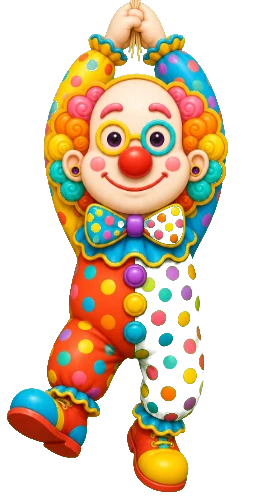
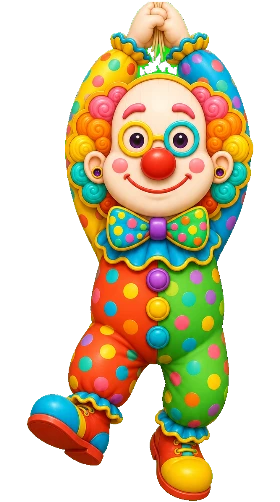
Flying Clown: subida maior com câmera, chão de picadeiro, escada de prêmios, PEGAR com valor, estouro com efeito, palhaço recortado, capa na Home

diff --git a/Fortune Flying Clown.dc.html b/Fortune Flying Clown.dc.html
@@ -15,6 +15,8 @@
 @font-face { font-family: 'Rammetto One'; font-display: swap; src: url('assets/fonts/rammettoone-latin.woff2') format('woff2'); }
 html, body { margin: 0; height: 100%; background: #12051f; font-family: 'Baloo 2', system-ui, sans-serif; -webkit-tap-highlight-color: transparent; overscroll-behavior: none; }
 a { color: #ffd257; text-decoration: none; } a:hover { color: #fff1b8; }
+@keyframes flGlow { 0%,100% { box-shadow: 0 0 0 3px #fff3c4, 0 0 16px rgba(255,200,60,.55); } 50% { box-shadow: 0 0 0 3px #fff3c4, 0 0 30px rgba(255,200,60,1); } }
+@keyframes flRung { 0%,100% { transform: scale(1); } 50% { transform: scale(1.08); } }
 @keyframes flPop { 0% { transform: scale(.6); opacity: 0; } 70% { transform: scale(1.06); opacity: 1; } 100% { transform: scale(1); } }
 @keyframes flFade { from { opacity: 0; } to { opacity: 1; } }
 @keyframes flPulse { 0%, 100% { transform: scale(1); } 50% { transform: scale(1.06); } }
@@ -27,8 +29,8 @@ a { color: #ffd257; text-decoration: none; } a:hover { color: #fff1b8; }
   <div style="position: absolute; inset: 0; background: url('assets/bleed/stage-bleed.webp') 50% 100% / cover; filter: blur(8px) brightness(.7);"></div>
   <div ref="{{ stageRef }}" data-screen-label="Fortune Flying Clown" style="position: relative; flex: 0 0 auto; width: 453px; height: 802px; overflow: hidden; transform: scale({{ scale }}); transform-origin: 50% 0; user-select: none; -webkit-user-select: none;">
 
-    <div ref="{{ worldRef }}" style="position: absolute; left: 0; top: -40px; width: 453px; height: 885px; background: url('assets/flying/bg.webp') 50% 50% / cover no-repeat; will-change: transform;"></div>
-    <div style="position: absolute; left: 14px; right: 14px; top: 664px; height: 30px; border-radius: 0 0 50% 50%; background: repeating-linear-gradient(45deg, rgba(255,243,196,.8) 0 2px, transparent 2px 14px), repeating-linear-gradient(-45deg, rgba(255,243,196,.8) 0 2px, transparent 2px 14px); border-top: 4px solid #ffd257;"></div>
+    <div ref="{{ worldRef }}" style="position: absolute; left: -120px; top: -520px; width: 693px; height: 1221px; background: url('assets/flying/bg2.webp') 50% 50% / cover no-repeat; will-change: transform;"></div>
+    <div ref="{{ floorRef }}" style="position: absolute; z-index: 4; left: -224px; top: 590px; width: 900px; height: 320px; pointer-events: none; will-change: transform; background: url('assets/flying/floor.webp') 50% 0 / 900px 183px no-repeat, linear-gradient(#680302, #3a0206) 0 182px / 100% 140px no-repeat;"></div>
     <canvas ref="{{ canvasRef }}" onPointerDown="{{ tapBalloon }}" width="906" height="1604" style="position: absolute; z-index: 6; inset: 0; width: 453px; height: 802px; cursor: pointer; touch-action: none;"></canvas>
     <img ref="{{ clownRef }}" src="assets/flying/clown.webp" alt="Palhaço" draggable="false" style="position: absolute; z-index: 5; left: 172.3px; top: 368.7px; width: 110px; height: 197px; pointer-events: none; transform-origin: 53.7px 11.3px; filter: drop-shadow(0 10px 10px rgba(0,0,0,.4));">
 
@@ -45,33 +47,31 @@ a { color: #ffd257; text-decoration: none; } a:hover { color: #fff1b8; }
     <a href="Home.dc.html" onClick="{{ goHome }}" aria-label="Voltar para o início" class="kr-hud-home" style="z-index: 20; border-radius: 50%; overflow: hidden; " style-active="filter: brightness(.6);"></a>
     <x-import from="./ui/menu.js" component="MenuButton" dc-props="{{ menuButton }}"></x-import>
 
-    <!-- multiplicador atual → próximo -->
-    <div style="position: absolute; z-index: 10; left: 165px; right: 125px; top: 22px; display: flex; flex-direction: column; justify-content: center; align-items: center; gap: 2px; pointer-events: none; opacity: {{ multOp }};">
-      <div style="height: 42px; padding: 0 16px; border-radius: 21px; display: flex; align-items: center; background: linear-gradient(180deg, #fff1a8, #ffc93a 55%, #e8900f); box-shadow: 0 3px 0 #8a4a05, 0 0 0 2px #6b2e05;">
-        <span style="font-size: 26px; font-weight: 800; line-height: 1; color: #4a1a00; font-variant-numeric: tabular-nums;">{{ multText }}</span>
-      </div>
-      <sc-if value="{{ hasNext }}" hint-placeholder-val="{{ true }}">
-        <span style="font-size: 16px; font-weight: 800; color: rgba(255,243,196,.9); text-shadow: 0 2px 0 rgba(0,0,0,.5); font-variant-numeric: tabular-nums;">→ {{ nextText }}</span>
-      </sc-if>
+    <!-- escada de prêmios: 10 degraus, o atual aceso e o próximo pulsando -->
+    <div aria-label="Prêmio atual {{ multText }}" style="position: absolute; z-index: 10; right: 10px; top: 92px; width: 64px; display: flex; flex-direction: column-reverse; gap: 5px; pointer-events: none;">
+      <sc-for list="{{ rungs }}" as="r" hint-placeholder-count="10">
+        <div style="height: 50px; border-radius: 16px; display: flex; align-items: center; justify-content: center; background: {{ r.bg }}; box-shadow: {{ r.sh }}; opacity: {{ r.op }}; animation: {{ r.anim }}; transition: background .3s, opacity .3s;">
+          <span style="font-size: {{ r.size }}; font-weight: 800; line-height: 1; color: {{ r.color }}; font-variant-numeric: tabular-nums; white-space: nowrap;">{{ r.text }}</span>
+        </div>
+      </sc-for>
     </div>
 
     <!-- botões (igual ao Neck): PEGAR à esquerda, ESTOURAR à direita -->
     <div style="position: absolute; z-index: 12; left: 14px; right: 14px; top: 704px; height: 86px; display: flex; gap: 10px;">
       <sc-if value="{{ showBet }}" hint-placeholder-val="{{ true }}">
         <div onClick="{{ openBet }}" role="button" aria-label="Aposta {{ betText }}" style="flex: 0 0 130px; height: 86px; border-radius: 26px; display: flex; flex-direction: column; align-items: center; justify-content: center; gap: 4px; line-height: 1; cursor: pointer; background: rgba(28,6,48,.92); box-shadow: inset 0 0 0 3px #f0b41f; animation: {{ betAnim }};" style-active="transform: scale(.96);">
-          <div style="width: 34px; height: 34px; border-radius: 50%; background: url('assets/stage-hd-c.webp') -18.3px -28.4px / 428px 758px;"></div>
+          <img src="assets/symbols/sym-coin.webp" alt="" style="width: 34px; height: 34px;">
           <span style="font-size: 24px; font-weight: 800; color: #fff3c4; font-variant-numeric: tabular-nums;">{{ betText }}</span>
         </div>
       </sc-if>
       <sc-if value="{{ showCollect }}" hint-placeholder-val="{{ false }}">
-        <div onClick="{{ collectBtn }}" role="button" aria-label="Pegar o prêmio" class="kr-button kr-button--gold" style="flex: 0 0 150px; overflow: hidden; height: 86px; display: flex; flex-direction: column; align-items: center; justify-content: center; line-height: 1; cursor: pointer; opacity: {{ collectOp }}; animation: flPop .3s ease-out;">
-          <span style="font-family: 'Rammetto One', 'Baloo 2', sans-serif; font-size: 24px; color: #4a1a00;">PEGAR</span>
-          <span style="font-size: 22px; font-weight: 800; color: #5a2a00; font-variant-numeric: tabular-nums; white-space: nowrap;">{{ collectText }}</span>
+        <div onClick="{{ collectBtn }}" role="button" aria-label="Pegar {{ collectText }} moedas" class="kr-button kr-button--gold" style="flex: 0 0 170px; overflow: hidden; height: 86px; display: flex; flex-direction: column; align-items: center; justify-content: center; gap: 3px; line-height: 1; cursor: pointer; opacity: {{ collectOp }}; animation: flGlow 1.2s ease-in-out infinite;">
+          <span style="font-family: 'Rammetto One', 'Baloo 2', sans-serif; font-size: 20px; color: #4a1a00;">PEGAR</span>
+          <div style="display: flex; align-items: center; gap: 5px;"><img src="assets/symbols/sym-coin.webp" alt="" style="width: 28px; height: 28px;"><span style="font-size: 27px; font-weight: 800; color: #4a1a00; font-variant-numeric: tabular-nums; white-space: nowrap;">{{ collectText }}</span></div>
         </div>
       </sc-if>
       <div onClick="{{ popBtn }}" role="button" aria-label="Estourar um balão" class="kr-button" style="flex: 1; height: 86px; display: flex; align-items: center; justify-content: center; gap: 10px; cursor: pointer; opacity: {{ popOp }}; animation: {{ popAnim }};">
-        <img src="assets/flying/b0.webp" alt="" style="width: 36px; height: 44px;">
-        <span style="font-family: 'Rammetto One', 'Baloo 2', sans-serif; font-size: 24px; color: #fff; text-shadow: 0 2px 0 #147a36;">ESTOURAR</span>
+        <span style="font-family: 'Rammetto One', 'Baloo 2', sans-serif; font-size: 26px; color: #fff; text-shadow: 0 2px 0 #147a36;">ESTOURAR</span>
       </div>
     </div>
 
@@ -130,7 +130,9 @@ a { color: #ffd257; text-decoration: none; } a:hover { color: #fff1b8; }
 // Fortune Flying Clown — par de escada do Nick Neck. Começa com 10 balões; toque num balão para estourar → ele sobe 1 andar.
 // Azar: todos estouram e ele cai na rede (perde). Estourou o 10º = x20 e ele sai voando. PEGAR quando quiser.
 // Chance de passar do andar k-1 para k = M[k-1]/M[k] (1º: 0,95/1,2) → parar em qualquer andar devolve 95%.
-const M = [1.2, 1.5, 2, 2.5, 3, 4, 5, 8, 12, 20], N = 10, HX = 226, HY0 = 380, DY = 26, BW = 54, BH = 65;
+const M = [1.2, 1.5, 2, 2.5, 3, 4, 5, 8, 12, 20], N = 10, HX = 226, HY0 = 380, DY = 24, BW = 54, BH = 65;
+// Camera: the tent pans down (and the near floor faster) as he rises, so 9 balloons read as a real climb.
+const PAN = 520, PANK = PAN / (DY * 9), FEET = 640;
 const SLOTS = [[-60, -92], [-20, -100], [20, -100], [60, -92], [-40, -146], [0, -152], [40, -146], [-20, -196], [20, -196], [0, -240]];
 const BETS = [1, 2.5, 5, 10, 25, 50, 100, 250, 500, 1000];
 const CONF = ['#ffd257', '#e8352b', '#2ec962', '#7fcfff', '#fff3c4', '#c86bff'];
@@ -138,12 +140,13 @@ const fmt = n => (Math.round(n * 100) / 100).toLocaleString('pt-BR', { maximumFr
 const ease = k => k < 0.5 ? 2 * k * k : 1 - Math.pow(-2 * k + 2, 2) / 2;
 class Component extends DCLogic {
   state = { balance: 1000, betIdx: 3, step: 0, bet: 0, busy: false, conf: [], vw: 453, vh: 802 };
-  stageRef = React.createRef(); worldRef = React.createRef(); canvasRef = React.createRef(); clownRef = React.createRef();
+  stageRef = React.createRef(); worldRef = React.createRef(); floorRef = React.createRef(); canvasRef = React.createRef(); clownRef = React.createRef();
   componentDidMount() {
     this._rs = () => this.setState({ vw: window.innerWidth, vh: window.innerHeight }); this._rs(); window.addEventListener('resize', this._rs);
     this.imgs = [0, 1, 2, 3, 4, 5].map(i => { const im = new Image(); im.src = 'assets/flying/b' + i + '.webp'; return im; });
     this.parts = []; this.fill(); this.cy = 0; this.cvy = 0; this.mode = 'idle'; this.hy = HY0;
-    window.__flying=this;const cloud=window.KingRicoCloud;if(cloud?.enabled)this._unwatch=cloud.watch(p=>{this._cloudDeferred=p;if(!this.state.busy&&!this._request&&!this.state.win)this.applyCloudPlayer();});
+    window.__flying=this;const cloud=window.KingRicoCloud;
+    if(!cloud?.enabled){try{const v=JSON.parse(localStorage.getItem('kr.flying.local'));if(v&&typeof v.balance==='number')this.setState({balance:v.balance<1?1000:v.balance});}catch(e){}}if(cloud?.enabled)this._unwatch=cloud.watch(p=>{this._cloudDeferred=p;if(!this.state.busy&&!this._request&&!this.state.win)this.applyCloudPlayer();});
     const loop = now => { this.tick(now / 1000); this._raf = requestAnimationFrame(loop); }; this._raf = requestAnimationFrame(loop);
   }
   componentWillUnmount() { this._dead=true;this._unwatch?.();if(window.__flying===this)delete window.__flying;window.removeEventListener('resize', this._rs); cancelAnimationFrame(this._raf); cancelAnimationFrame(this._tw); clearTimeout(this._ct); }
@@ -161,63 +164,83 @@ class Component extends DCLogic {
   recharge=async()=>{const c=window.KingRicoCloud;if(!c?.enabled||this._request)return;this._request=true;try{const r=await c.recharge();if(r.reason)c.error({code:'king-rico/round-conflict'});}catch(e){c.error(e);}finally{this._request=false;this._cloudDeferred=c.player;this.applyCloudPlayer();}};
   ac() { if (!this._ac) try { this._ac = new (window.AudioContext || window.webkitAudioContext)(); } catch (e) { return null; } if (this._ac.state === 'suspended') this._ac.resume(); return this._ac; }
   tone(f, d, type = 'triangle', g = 0.07, f2) { const L = [0, 0.35, 1][this.state.sfxLvl ?? 2]; if (!L) return; const a = this.ac(); if (!a) return; const o = a.createOscillator(), v = a.createGain(), t = a.currentTime; o.type = type; o.frequency.setValueAtTime(f, t); if (f2) o.frequency.exponentialRampToValueAtTime(f2, t + d); v.gain.setValueAtTime(g * L, t); v.gain.exponentialRampToValueAtTime(0.0001, t + d); o.connect(v).connect(a.destination); o.start(t); o.stop(t + d + 0.02); }
-  pop() { const L = [0, 0.35, 1][this.state.sfxLvl ?? 2]; const a = this.ac(); if (!a || !L) return; const n = a.createBuffer(1, a.sampleRate * 0.12, a.sampleRate), d = n.getChannelData(0); for (let i = 0; i < d.length; i++) d[i] = (Math.random() * 2 - 1) * Math.pow(1 - i / d.length, 3); const s = a.createBufferSource(), g = a.createGain(); s.buffer = n; g.gain.value = 0.5 * L; s.connect(g).connect(a.destination); s.start(); }
+  pop() { const L = [0, 0.35, 1][this.state.sfxLvl ?? 2]; const a = this.ac(); if (!a || !L) return; const n = a.createBuffer(1, a.sampleRate * 0.12, a.sampleRate), d = n.getChannelData(0); for (let i = 0; i < d.length; i++) d[i] = (Math.random() * 2 - 1) * Math.pow(1 - i / d.length, 3); const s = a.createBufferSource(), g = a.createGain(); s.buffer = n; g.gain.value = 0.7 * L; s.connect(g).connect(a.destination); s.start(); this.tone(160, .12, 'sine', .12, 60); }
   buzz(p) { if (!(this.state.vibLvl ?? 2)) return; try { navigator.vibrate && navigator.vibrate(p); } catch (e) {} }
   tween(T, f, done) { const t0 = performance.now(); const st = () => { const k = Math.min(1, (performance.now() - t0) / T); f(k); if (k < 1) this._tw = requestAnimationFrame(st); else done && done(); }; cancelAnimationFrame(this._tw); this._tw = requestAnimationFrame(st); }
   tick(t) {
     const dt=this._lastFrame==null?1/60:Math.min(.05,Math.max(0,t-this._lastFrame));this._lastFrame=t;if(this._dead||this.state.menu||this.state.pays||this.state.betOpen||document.hidden)return;
-    const s = this.state.step, w = this.worldRef.current; if (w) w.style.transform = 'translateY(' + ((HY0 - this.hy) * 0.25).toFixed(1) + 'px)';
+    const s = this.state.step, w = this.worldRef.current, f = this.floorRef.current, cam = Math.max(0, Math.min(PAN, (HY0 - this.hy - this.cy) * PANK));
+    if (w) w.style.transform = 'translateY(' + cam.toFixed(1) + 'px)'; if (f) f.style.transform = 'translateY(' + (cam * 1.35).toFixed(1) + 'px)';
     const sway = Math.sin(t * 1.3) * 0.05, c = this.clownRef.current, hy = this.hy + this.cy;
     let rot = sway, sx = 1, sy = 1;
-    if (this.mode === 'hang') { this.hangT += dt; const k = Math.min(1, this.hangT / 0.35); sy = 1 + 0.08 * k; sx = 1 - 0.05 * k; rot = Math.sin(t * 30) * 0.04 * k; if (this.hangT >= 0.35) { this.mode = 'fall'; this.cvy = 60; } }
-    else if (this.mode === 'fall') { this.cvy += 2600 * dt; this.cy += this.cvy * dt; const fl = HY0 - this.hy + 98; rot = Math.sin(t * 22) * 0.12; sy = 1 + Math.min(0.12, this.cvy / 6000); sx = 1 / sy;
-      if (this.cy >= fl) { this.cy = fl; this.mode = 'land'; this.landT = 0; this.dust(); this.tone(110, 0.3, 'sine', 0.14, 60); this.buzz([50, 30, 30]); const st = this.stageRef.current; if (st && st.animate) st.animate([{ transform: st.style.transform + ' translateY(0)' }, { transform: st.style.transform + ' translateY(6px)' }, { transform: st.style.transform + ' translateY(-2px)' }, { transform: st.style.transform + ' translateY(0)' }], { duration: 260 }); } }
+    if (this.mode === 'hang') { this.hangT += dt; const k = Math.min(1, this.hangT / 0.5); sy = 1 + 0.08 * k; sx = 1 - 0.05 * k; rot = Math.sin(t * 30) * 0.04 * k; if (this.hangT >= 0.5) { this.mode = 'fall'; this.cvy = -260; } }
+    else if (this.mode === 'fall') { this.cvy += 2600 * dt; this.cy += this.cvy * dt; const fl = HY0 - this.hy + (FEET - 566); rot = Math.sin(t * 16) * 0.32 + Math.sin(t * 37) * 0.06; if (Math.random() < .5) this.parts.push({ x: HX + (Math.random() - .5) * 60, y: this.hy + this.cy - 30, vx: 0, vy: -700, c: 'rgba(255,243,196,.55)', t: 0, streak: 1 }); sy = 1 + Math.min(0.12, this.cvy / 6000); sx = 1 / sy;
+      if (this.cy >= fl) { this.cy = fl; this.mode = 'land'; this.landT = 0; this.dust(); this.tone(110, 0.3, 'sine', 0.14, 60); this.buzz([50, 30, 30]); const st = this.stageRef.current; if (st && st.animate) st.animate([{ transform: st.style.transform + ' translateY(0)' }, { transform: st.style.transform + ' translateY(12px)' }, { transform: st.style.transform + ' translateY(-5px)' }, { transform: st.style.transform + ' translateY(3px)' }, { transform: st.style.transform + ' translateY(0)' }], { duration: 380 }); } }
     else if (this.mode === 'land' || this.mode === 'down') { this.landT = (this.landT || 0) + dt; const k = this.landT; const q = k < 0.08 ? k / 0.08 : Math.exp(-(k - 0.08) * 7) * Math.cos((k - 0.08) * 26); sy = 1 - 0.28 * q; sx = 1 + 0.22 * q; rot = 0; if (k > 0.8) this.mode = 'down'; }
     else if (this.mode === 'rise') { this.riseT += dt; const k = Math.min(1, this.riseT / 0.9); sy = 1 + 0.14 * Math.sin(k * Math.PI); sx = 1 - 0.08 * Math.sin(k * Math.PI); rot = 0; if (k >= 1) this.mode = 'idle'; }
-    if (c) { c.style.transformOrigin = '50% 100%'; c.style.transform = 'translateY(' + (hy - HY0).toFixed(1) + 'px) rotate(' + rot.toFixed(3) + 'rad) scale(' + sx.toFixed(3) + ',' + sy.toFixed(3) + ')'; }
+    if (c) { c.style.transformOrigin = (this.mode === 'land' || this.mode === 'down') ? '50% 100%' : '50% 4%'; c.style.transform = 'translateY(' + (hy - HY0).toFixed(1) + 'px) rotate(' + rot.toFixed(3) + 'rad) scale(' + sx.toFixed(3) + ',' + sy.toFixed(3) + ')'; }
     const cv = this.canvasRef.current; if (!cv) return; const x = cv.getContext('2d'); x.setTransform(2, 0, 0, 2, 0, 0); x.clearRect(0, 0, 453, 802);
-    const hx = HX + Math.sin(sway) * 6; this.hit = [];
-    this.balls.forEach((b, i) => { b.cx = hx + b.x + Math.sin(t * 1.5 + b.ph) * 4; b.cy = hy + b.y + Math.cos(t * 1.3 + b.ph) * 3; });
+    const hx = HX + Math.sin(rot) * 6; this.hit = []; const lift = this.mode === 'rise' ? -10 * Math.sin(Math.min(1, this.riseT / 0.9) * Math.PI) : 0;
+    this.balls.forEach((b, i) => { b.cx = hx + b.x + Math.sin(t * 1.5 + b.ph) * 4; b.cy = hy + lift + b.y + Math.cos(t * 1.3 + b.ph) * 3; });
     x.strokeStyle = 'rgba(255,255,255,.75)'; x.lineWidth = 1.2; this.balls.forEach(b => { x.beginPath(); x.moveTo(hx, hy); x.quadraticCurveTo((hx + b.cx) / 2, (hy + b.cy) / 2 + 20, b.cx, b.cy + BH * 0.48 * b.s); x.stroke(); });
     this.balls.slice().sort((a, b) => a.cy - b.cy).forEach(b => { const im = this.imgs[b.c]; if (im.complete && im.naturalWidth) x.drawImage(im, b.cx - BW * b.s / 2, b.cy - BH * b.s / 2, BW * b.s, BH * b.s); });
-    for (let i = this.parts.length - 1; i >= 0; i--) { const p = this.parts[i]; p.t += dt; p.x += p.vx * dt; p.y += p.vy * dt; p.vy += 600 * dt; x.fillStyle = p.c; x.globalAlpha = Math.max(0, 1 - p.t / 0.7); x.fillRect(p.x, p.y, 7, 4); x.globalAlpha = 1; if (p.t > 0.7) this.parts.splice(i, 1); }
+    for (let i = this.parts.length - 1; i >= 0; i--) { const p = this.parts[i]; p.t += dt; p.x += p.vx * dt; p.y += p.vy * dt; if (!p.ring && !p.streak) p.vy += 600 * dt; x.globalAlpha = Math.max(0, 1 - p.t / (p.life || 0.7)); x.fillStyle = p.c; if (p.streak) { p.vy = -700; x.fillRect(p.x, p.y, 2, 26); } else if (p.ring) { x.strokeStyle = p.c; x.lineWidth = 4 * (1 - p.t / p.life); x.beginPath(); x.arc(p.x, p.y, 10 + p.t * 220, 0, 6.29); x.stroke(); } else { x.save(); x.translate(p.x, p.y); x.rotate(p.t * (p.spin || 8)); x.fillRect(-(p.w || 7) / 2, -2, p.w || 7, 4); x.restore(); } x.globalAlpha = 1; if (p.t > (p.life || 0.7)) this.parts.splice(i, 1); }
   }
-  burst(b) { const cols = ['#e8352b', '#ff6aa8', '#ffd23a', '#ff8a2a', '#2fc7d6', '#a45cff']; for (let k = 0; k < 12; k++) { const a = Math.random() * 6.28, v = 120 + Math.random() * 220; this.parts.push({ x: b.cx, y: b.cy, vx: Math.cos(a) * v, vy: Math.sin(a) * v - 80, c: cols[b.c], t: 0 }); } }
+  burst(b, big = true) { const cols = ['#e8352b', '#ff6aa8', '#ffd23a', '#ff8a2a', '#2fc7d6', '#a45cff'];
+    for (let k = 0; k < (big ? 26 : 12); k++) { const a = Math.random() * 6.28, v = 140 + Math.random() * 300; this.parts.push({ x: b.cx, y: b.cy, vx: Math.cos(a) * v, vy: Math.sin(a) * v - 90, c: cols[b.c], t: 0, w: 5 + Math.random() * 9, spin: (Math.random() - .5) * 24, life: .8 }); }
+    if (big) { this.parts.push({ x: b.cx, y: b.cy, vx: 0, vy: 0, c: '#fff3c4', t: 0, ring: 1, life: .32 }); this.popText(b.cx, b.cy); this.shake(); } }
+  popText(x, y) { const st = this.stageRef.current; if (!st || !st.animate) return; const d = document.createElement('div'); d.textContent = 'POP!';
+    d.style.cssText = "position:absolute;z-index:9;left:0;top:0;pointer-events:none;font-family:'Rammetto One','Baloo 2',sans-serif;font-size:30px;color:#fff3c4;text-shadow:0 3px 0 #b8341f,0 0 14px rgba(255,200,60,.9);";
+    st.appendChild(d); const a = d.animate([{ transform: 'translate(' + (x - 40) + 'px,' + (y - 20) + 'px) scale(.4) rotate(-8deg)', opacity: 0 }, { transform: 'translate(' + (x - 40) + 'px,' + (y - 46) + 'px) scale(1.15) rotate(4deg)', opacity: 1, offset: .3 }, { transform: 'translate(' + (x - 40) + 'px,' + (y - 70) + 'px) scale(1) rotate(0)', opacity: 0 }], { duration: 650, easing: 'cubic-bezier(.2,.8,.3,1)', fill: 'forwards' }); a.onfinish = () => d.remove(); }
+  shake() { const w = this.worldRef.current; if (!w || !w.animate) return; w.animate([{ translate: '0 0' }, { translate: '-4px 2px' }, { translate: '4px -2px' }, { translate: '-2px 1px' }, { translate: '0 0' }], { duration: 180 }); }
   pack() { this.balls.forEach((b, i) => { const [tx, ty] = SLOTS[i], fx = b.x, fy = b.y; b.tw = { fx, fy, tx, ty }; }); const B = this.balls; const t0 = performance.now(); const st = () => { const k = Math.min(1, (performance.now() - t0) / 400), e = ease(k); B.forEach(b => { if (b.tw) { b.x = b.tw.fx + (b.tw.tx - b.tw.fx) * e; b.y = b.tw.fy + (b.tw.ty - b.tw.fy) * e; } }); if (k < 1) requestAnimationFrame(st); }; requestAnimationFrame(st); }
   tapBalloon = e => {
     const s = this.state; if (this._request || s.busy || s.win || s.menu || s.pays || s.betOpen || this.mode !== 'idle') return; this.ac();
     const r = e.currentTarget.getBoundingClientRect(), sc = r.width / 453, px = (e.clientX - r.left) / sc, py = (e.clientY - r.top) / sc;
     let bi = -1, bd = 1e9; this.balls.forEach((b, i) => { const d = Math.hypot(px - b.cx, (py - b.cy) * 0.85); if (d < bd) { bd = d; bi = i; } }); if (bi < 0 || bd > 40) return; this.popIdx(bi); };
   popBtn = () => { const s = this.state; if (this._request || s.busy || s.win || s.menu || s.pays || s.betOpen || this.mode !== 'idle' || !this.balls.length) return; this.ac(); let bi = 0; this.balls.forEach((b, i) => { if ((b.cy ?? 0) < (this.balls[bi].cy ?? 0)) bi = i; }); this.popIdx(bi); };
+  // Offline (no login, e.g. preview): same odds as cloud/engine.cjs — 0,95/1,2 on the first balloon, M[k-1]/M[k] after.
+  // Wallet kept on this device only.
+  localFlying(move, bet, step) { const before = this.state.balance;
+    if (move === 'collect') { const w = Math.round(bet * M[step - 1] * 100) / 100, bal = Math.round((before + w) * 100) / 100; this.saveLocal(bal); return { outcome: { ok: true, winUnits: Math.round(w * 100) }, balance: bal }; }
+    const debit = step === 0 ? bet : 0, ok = Math.random() < (step === 0 ? 0.95 / M[0] : M[step - 1] / M[step]), done = ok && step + 1 === N, w = done ? Math.round(bet * M[N - 1] * 100) / 100 : 0, bal = Math.round((before - debit + w) * 100) / 100;
+    this.saveLocal(bal); return { outcome: { ok, winUnits: Math.round(w * 100) }, balance: bal }; }
+  saveLocal(bal) { try { localStorage.setItem('kr.flying.local', JSON.stringify({ balance: bal })); } catch (e) {} }
   async popIdx(bi) {
     const c=window.KingRicoCloud,s=this.state;
-    if(!c?.enabled||!c.player||this._request||s.busy||!this.balls[bi])return;
+    if(!c?.enabled){ if(this._request||s.busy||!this.balls[bi])return; const bet=s.step?s.bet:BETS[s.betIdx]; if(!s.step&&s.balance<bet){this.setState({noMoney:true});setTimeout(()=>this.setState({noMoney:false}),600);return;}
+      const r=this.localFlying('pop',bet,s.step); return this.animatePop(bi,r.outcome,r.balance,bet,s.step); }
+    if(!c.player||this._request||s.busy||!this.balls[bi])return;
     const roundId=s.roundId||crypto.randomUUID(),bet=s.step?s.bet:BETS[s.betIdx],selected=this.balls[bi].id;
     this._request=true;this.setState({busy:true});let r;
     try{r=await c.flying('pop',bet,roundId,s.step,selected);}
     catch(e){c.error(e);this.setState({busy:false});this._request=false;this._cloudDeferred=c.player;this.applyCloudPlayer();return;}
     this._request=false;if(this._dead)return;
     if(c.player.revision>r.player.revision){this.setState({busy:false});this._cloudDeferred=c.player;this.applyCloudPlayer();return;}
-    const x=r.outcome,bal=c.player.balance,j=s.step,ok=x.ok,b=this.balls[bi];
     this.setState({roundId});
+    this.animatePop(bi,r.outcome,c.player.balance,bet,s.step);
+  }
+  animatePop(bi,x,bal,bet,j) {
+    const ok=x.ok,b=this.balls[bi];
     this.setState({ balance: bal, bet, busy: true }); this.burst(b); this.pop(); this.buzz(25); this.balls.splice(bi, 1);
-    if (!ok) { this.mode = 'hang'; this.hangT = 0; this.cvy = 0; let d = 0; this.balls.forEach(q => { setTimeout(() => { this.burst(q); this.pop(); }, d += 70); }); setTimeout(() => { this.balls = []; }, 60); setTimeout(() => this.tone(520, 0.5, 'sine', 0.07, 160), 150); this.buzz([60, 40, 60]); setTimeout(() => { this.reset(); this.mode = 'rise'; this.riseT = 0; this.hy = HY0 + 98; this.tween(1100, k => { this.hy = HY0 + 98 * (1 - ease(k)); }); this.tone(392, 0.2); setTimeout(() => this.tone(523, 0.25), 140); }, 2400); return; }
+    if (!ok) { this.mode = 'hang'; this.hangT = 0; this.cvy = 0; let d = 0; this.balls.forEach(q => { setTimeout(() => { this.burst(q, false); this.pop(); }, d += 70); }); setTimeout(() => { this.balls = []; }, 60); setTimeout(() => this.tone(520, 0.5, 'sine', 0.07, 160), 150); this.buzz([60, 40, 60]); setTimeout(() => { this.reset(); this.mode = 'rise'; this.riseT = 0; this.hy = HY0 + (FEET - 566); this.tween(1100, k => { this.hy = HY0 + (FEET - 566) * (1 - ease(k)); }); this.tone(392, 0.2); setTimeout(() => this.tone(523, 0.25), 140); }, 2400); return; }
     const n = j + 1; [523, 659, 784].forEach((f, i) => setTimeout(() => this.tone(f * Math.pow(1.06, j), 0.14), 60 + i * 60)); this.pack();
     if (n === N) { this.mode = 'away'; this.setState({ step: n }); this.confetti(); const fy = this.hy; this.tween(1400, k => { this.hy = fy - 700 * ease(k); }, () => this.showPrize(x.winUnits/100, 'SAIU VOANDO!')); return; }
-    this.mode = 'rise'; this.riseT = 0.25; const fy = this.hy; this.tween(550, k => { this.hy = fy - DY * ease(k); }, () => this.setState({ step: n, busy: false }));
+    this.mode = 'rise'; this.riseT = 0; const fy = this.hy; this.tween(850, k => { this.hy = fy - DY * (k < .7 ? ease(k / .7) * 1.12 : 1.12 - .12 * ease((k - .7) / .3)); }, () => this.setState({ step: n, busy: false }));
   };
-  dust() { const st = this.stageRef.current; if (!st || !st.animate) return; const fy = 664;
-    for (let i = 0; i < 14; i++) { const d = document.createElement('div'), side = i % 2 ? 1 : -1, sz = 14 + Math.random() * 18, dx = side * (30 + Math.random() * 70), dy = -(10 + Math.random() * 34);
+  dust() { const st = this.stageRef.current; if (!st || !st.animate) return; const fy = FEET;
+    for (let i = 0; i < 22; i++) { const d = document.createElement('div'), side = i % 2 ? 1 : -1, sz = 14 + Math.random() * 18, dx = side * (30 + Math.random() * 70), dy = -(10 + Math.random() * 34);
       d.style.cssText = 'position:absolute;z-index:6;left:0;top:0;width:' + sz + 'px;height:' + sz + 'px;border-radius:50%;pointer-events:none;background:radial-gradient(circle at 40% 40%, rgba(255,240,215,.95), rgba(214,180,140,.75) 60%, rgba(180,140,100,0) 100%)';
       st.appendChild(d); const x0 = HX - sz / 2 + side * (6 + Math.random() * 16), y0 = fy - sz / 2 - 4;
       const a = d.animate([{ transform: 'translate(' + x0 + 'px,' + y0 + 'px) scale(.4)', opacity: .95 }, { transform: 'translate(' + (x0 + dx * 0.7) + 'px,' + (y0 + dy) + 'px) scale(1.2)', opacity: .8, offset: .45 }, { transform: 'translate(' + (x0 + dx) + 'px,' + (y0 + dy * 0.6) + 'px) scale(1.6)', opacity: 0 }], { duration: 650 + Math.random() * 300, easing: 'cubic-bezier(.2,.7,.3,1)', fill: 'forwards' });
       a.onfinish = () => d.remove(); } }
-  reset() { if(this._dead)return;this.fill(); this.mode = 'idle'; this.cy = 0; this.cvy = 0; this.hy = HY0; this.setState({ step: 0, bet: 0, roundId:null,busy: false },()=>{this._cloudDeferred=window.KingRicoCloud?.player;this.applyCloudPlayer();}); }
+  reset() { if(this._dead)return;this.fill(); this.mode = 'idle'; this.cy = 0; this.cvy = 0; this.hy = HY0; this.setState({ step: 0, bet: 0, roundId:null,busy: false },()=>{if(!window.KingRicoCloud?.enabled)return;this._cloudDeferred=window.KingRicoCloud?.player;this.applyCloudPlayer();}); }
   confetti() { const conf = Array.from({ length: 24 }, (_, j) => { const a = -Math.PI / 2 + (j / 23 - 0.5) * 2.8, v = 110 + (j * 37 % 80); return { x: (HX - 5) + 'px', y: '300px', dx: Math.round(Math.cos(a) * v * 1.7) + 'px', dy: Math.round(Math.sin(a) * v * 1.7 + 80) + 'px', bg: CONF[j % CONF.length] }; });
     clearTimeout(this._ct); this.setState({ conf }); this._ct = setTimeout(() => this.setState({ conf: [] }), 1100); }
   showPrize(w, title) { if(this._dead)return; [523, 659, 784, 1046].forEach((f, i) => setTimeout(() => this.tone(f, 0.2), i * 90)); this.buzz([60, 50, 90]); this.setState({ win: { w, title }, busy: true }); }
   collectBtn=async()=>{
-    const c=window.KingRicoCloud,s=this.state;if(!c?.enabled||s.busy||s.win||s.step<1||this._request)return;
+    const c=window.KingRicoCloud,s=this.state;if(s.busy||s.win||s.step<1||this._request)return;
+    if(!c?.enabled){const r=this.localFlying('collect',s.bet,s.step);this.setState({balance:r.balance,busy:true});this.showPrize(r.outcome.winUnits/100,'VOCÊ GANHOU!');return;}
     this._request=true;this.setState({busy:true});
     try{const r=await c.flying('collect',s.bet,s.roundId,s.step,-1);if(this._dead)return;
       this.setState({balance:c.player.balance});this.showPrize(r.outcome.winUnits/100,'VOCÊ GANHOU!');
@@ -230,7 +253,7 @@ class Component extends DCLogic {
     this.tween(900,k=>{this.hy=fy+(HY0-fy)*ease(k);},()=>this.reset());
   };
   flyCoins(done) { const st = this.stageRef.current; if (!st || !st.animate) return done(); const from = { x: 100, y: 745 }, to = { x: 40, y: 42 }, n = 10;
-    for (let i = 0; i < n; i++) { const c = document.createElement('div'); c.style.cssText = 'position:absolute;z-index:35;left:0;top:0;width:34px;height:34px;border-radius:50%;pointer-events:none;background-image:url(assets/stage-hd-c.webp);background-size:453px 802px;background-position:-19.333px -30px;box-shadow:0 0 10px rgba(255,210,87,.8)';
+    for (let i = 0; i < n; i++) { const c = document.createElement('div'); c.style.cssText = 'position:absolute;z-index:35;left:0;top:0;width:34px;height:34px;border-radius:50%;pointer-events:none;background:url(assets/symbols/sym-coin.webp) center/contain no-repeat;filter:drop-shadow(0 0 8px rgba(255,210,87,.8))';
       st.appendChild(c); const dx = (i - n / 2) * 12, mid = { x: (from.x + to.x) / 2 + dx * 2, y: from.y - 260 - (i % 3) * 30 };
       const a = c.animate([{ transform: `translate(${from.x - 17 + dx}px,${from.y - 17}px) scale(.6)`, opacity: 0 }, { transform: `translate(${mid.x - 17}px,${mid.y - 17}px) scale(1.15)`, opacity: 1, offset: .45 }, { transform: `translate(${to.x - 17}px,${to.y - 17}px) scale(.7)`, opacity: 1 }], { duration: 760, delay: i * 55, easing: 'cubic-bezier(.4,0,.6,1)', fill: 'forwards' });
       a.onfinish = () => { c.remove(); this.tone(1800 + i * 40, 0.03, 'square', 0.03); if (i === n - 1) done(); }; } }
@@ -245,7 +268,13 @@ class Component extends DCLogic {
   renderVals() {
     const s = this.state, txt = fmt(s.balance), j = s.step;
     return {
-      scale: Math.min(s.vw / 453, s.vh / 802), stageRef: this.stageRef, worldRef: this.worldRef, canvasRef: this.canvasRef, clownRef: this.clownRef,
+      scale: Math.min(s.vw / 453, s.vh / 802), stageRef: this.stageRef, worldRef: this.worldRef, floorRef: this.floorRef,
+      rungs: M.map((m, i) => { const done = i < j - 1, cur = i === j - 1, next = i === j;
+        return { text: 'x' + fmt(m), size: cur ? '21px' : '18px', color: cur ? '#4a1a00' : next ? '#fff3c4' : done ? '#ffe39a' : 'rgba(255,243,196,.8)',
+          bg: cur ? 'linear-gradient(180deg, #fff1a8, #ffc93a 55%, #e8900f)' : done ? 'rgba(120,70,10,.85)' : next ? 'rgba(40,10,60,.92)' : 'rgba(28,6,48,.78)',
+          sh: cur ? '0 0 0 3px #fff3c4, 0 0 18px rgba(255,200,60,.9)' : next ? 'inset 0 0 0 3px #ffd257' : 'inset 0 0 0 2px rgba(240,180,31,.45)', op: done ? .8 : 1,
+          anim: next && !s.busy ? 'flRung 1.1s ease-in-out infinite' : 'none' }; }),
+      popNext: j < N ? 'PARA x' + fmt(M[j]) : '', canvasRef: this.canvasRef, clownRef: this.clownRef,
       balanceText: txt, balanceSize: (txt.length <= 6 ? 19 : txt.length <= 8 ? 16.5 : 14) + 'px', goHome: this.goHome, openMenu: this.openMenu,
       multText: j ? 'x' + fmt(M[j - 1]) : 'x' + fmt(M[0]), multOp: j ? 1 : 0.6, hasNext: j > 0 && j < M.length, nextText: j < M.length ? 'x' + fmt(M[j]) : '',
       showBet: j === 0, betText: fmt(BETS[s.betIdx]), betAnim: s.noMoney ? 'flNo .6s ease-in-out' : 'none', openBet: this.openBet,

diff --git a/Home.dc.html b/Home.dc.html
@@ -30,7 +30,7 @@ a { color: #ffd257; text-decoration: none; } a:hover { color: #fff1b8; }
   <div style="position: absolute; left: 0; right: 0; top: 0; height: 64%; background: linear-gradient(180deg, rgba(48,10,70,.62) 0%, rgba(48,10,70,.32) 55%, rgba(48,10,70,0) 100%); pointer-events: none;"></div>
   <div data-screen-label="Home" style="position: absolute; left: 0; right: 0; top: 0; bottom: 0; width: min(453px, 100%); margin: 0 auto; display: flex; flex-direction: column; padding-top: {{ padTop }}; box-sizing: border-box;">
 
-    <div style="position: relative; left: 50%; width: {{ hdrW }}; transform: translateX(-50%); height: {{ hdrH }}; flex: 0 0 {{ hdrH }}; z-index: 10;">
+    <div style="position: relative; height: {{ hdrH }}; flex: 0 0 {{ hdrH }}; z-index: 10;">
       <x-import from="./ui/menu.js" component="MenuButton" dc-props="{{ menuButton }}"></x-import>
       <div ref="{{ rPlaque }}" role="status" aria-label="Seu saldo: {{ balanceText }} moedas" style="position: absolute; left: {{ plqL }}; top: {{ plqT }}; width: 130px; height: 36px; border-radius: 18px; overflow: hidden; background-image: url('{{ imgStage }}'); background-size: 453px 802px; background-position: -19.333px -30px; background-repeat: no-repeat; transform: scale({{ plqS }}); transform-origin: {{ plqO }};">
         <div style="position: absolute; left: 39px; top: -2px; width: 88px; height: 39px; display: flex; align-items: center; justify-content: center;">
@@ -109,7 +109,7 @@ a { color: #ffd257; text-decoration: none; } a:hover { color: #fff1b8; }
           </div>
         </a>
         <a href="Fortune Flying Clown.dc.html" aria-label="Jogar Fortune Flying Clown" style="position: relative; display: block; padding-bottom: 6px; cursor: pointer;" style-active="transform: scale(.97);">
-          <div style="position: relative; aspect-ratio: 1 / 1; border-radius: 30px; overflow: hidden; background: #2a0a4a; box-shadow: inset 0 0 0 3px rgba(255,236,160,.85), 0 0 0 3px #f0b41f, 0 8px 16px rgba(0,0,0,.35);"><img src="assets/flying/bg.webp" alt="" style="position:absolute;inset:0;width:100%;height:100%;object-fit:cover;"><img src="assets/flying/clown.webp" alt="" style="position:absolute;left:35%;top:35%;width:33%;height:58%;object-fit:contain;"><img src="assets/flying/b0.webp" alt="" style="position:absolute;left:22%;top:22%;width:20%;height:28%;object-fit:contain;"><img src="assets/flying/b1.webp" alt="" style="position:absolute;left:42%;top:15%;width:20%;height:28%;object-fit:contain;"><img src="assets/flying/b2.webp" alt="" style="position:absolute;left:63%;top:23%;width:20%;height:28%;object-fit:contain;"></div>
+          <div style="position: relative; aspect-ratio: 1 / 1; border-radius: 30px; overflow: hidden; background: #2a0a4a url('assets/brand/cover-flying.webp') center / cover no-repeat; box-shadow: inset 0 0 0 3px rgba(255,236,160,.85), 0 0 0 3px #f0b41f, 0 8px 16px rgba(0,0,0,.35);"><img src="assets/flying/bg.webp" alt="" style="position:absolute;inset:0;width:100%;height:100%;object-fit:cover;"><img src="assets/flying/clown.webp" alt="" style="position:absolute;left:35%;top:35%;width:33%;height:58%;object-fit:contain;"><img src="assets/flying/b0.webp" alt="" style="position:absolute;left:22%;top:22%;width:20%;height:28%;object-fit:contain;"><img src="assets/flying/b1.webp" alt="" style="position:absolute;left:42%;top:15%;width:20%;height:28%;object-fit:contain;"><img src="assets/flying/b2.webp" alt="" style="position:absolute;left:63%;top:23%;width:20%;height:28%;object-fit:contain;"></div>
           <div style="position: absolute; left: 6px; right: 6px; bottom: 0; height: 38px; border-radius: 50%; background: linear-gradient(180deg, #6cf096, #2ec962 60%, #22a650); box-shadow: 0 4px 0 #147a36, inset 0 2px 0 rgba(255,255,255,.6); display: flex; flex-direction: column; align-items: center; justify-content: center; line-height: 1;">
             <span style="font-size:10px;font-weight:800;letter-spacing:1.5px;color:#e9ffe8;">FORTUNE</span><span style="font-family:'Rammetto One','Baloo 2',sans-serif;font-size:12px;color:#fff;text-shadow:0 2px #147a36;white-space:nowrap;">FLYING CLOWN</span>
           </div>
@@ -317,9 +317,9 @@ class Component extends DCLogic {
       // Dentro do jogo (window.__fcLayout): mesma escala e mesma área segura do jogo; o saldo fica no mesmo ponto do saldo do jogo.
       // Arquivo avulso no navegador: tamanho em px do próprio navegador.
       ...(() => { const L = typeof window !== 'undefined' && window.__fcLayout;
-        if (L) return { rootMinH: '0px', padTop: L.safeTopU + 'px', plqS: 1.25, plqO: '0 50%', plqL: '18px', plqT: 'calc(var(--kr-hud-top) + 2px)', mnuR: '20.167px', mnuT: '29.5px', hdrH: '70px', hdrW: '453px' };
-        const w = window.innerWidth || 453, h = window.innerHeight || 802, gs = Math.max(.25, Math.min(w / 453, h / 802));
-        return { gs, rootMinH: '100vh', padTop: 'env(safe-area-inset-top, 0px)', plqS: 1.25 * gs, plqO: '0 50%', plqL: 18 * gs + 'px', plqT: 'calc((var(--kr-hud-top) + 20px) * ' + gs + ' - 18px)', mnuR: 20.167 * gs + 'px', mnuT: 29.5 * gs + 'px', hdrH: Math.round(70 * gs) + 'px', hdrW: 453 * gs + 'px' }; })(),
+        if (L) return { rootMinH: '0px', padTop: L.safeTopU + 'px', plqS: 1.25, plqO: '17.5px 18px', plqL: '19.333px', plqT: '32px', mnuR: '20.167px', mnuT: '29.5px', hdrH: '70px' };
+        const w = window.innerWidth || 453, h = window.innerHeight || 802, gs = Math.max(.25, Math.min(w / 453, h / 802, 1.6));
+        return { gs, rootMinH: '100vh', padTop: 'env(safe-area-inset-top, 0px)', plqS: 1.25 * gs, plqO: '0 50%', plqL: 19.333 * gs + 'px', plqT: (50 * gs - 18) + 'px', mnuR: 20.167 * gs + 'px', mnuT: 29.5 * gs + 'px', hdrH: Math.round(70 * gs) + 'px' }; })(),
       balanceText: txt,
       balanceSize: (txt.length <= 6 ? 19 : txt.length <= 8 ? 16.5 : 14) + 'px',
       quip: s.quip, kingMood: s.mood, kingKey: s.key, tapKing: this.tapKing,
@@ -352,8 +352,8 @@ class Component extends DCLogic {
       ],
       menuButton: {onClick:this.openMenu,style:(() => {
         if (window.__fcLayout) return {};
-        const gs = Math.max(.25, Math.min(window.innerWidth / 453, window.innerHeight / 802));
-        return {right:(40.667*gs-20.5)+'px',top:'calc((var(--kr-hud-top) + 20.5px) * '+gs+' - 20.5px)','--kr-hud-scale':gs};
+        const gs = Math.max(.25, Math.min(window.innerWidth / 453, window.innerHeight / 802, 1.6));
+        return {right:(40.667*gs-20.5)+'px',top:(50.5*gs-20.5)+'px','--kr-hud-scale':gs};
       })()},
       menuProps: {open:!!s.menu,onClose:this.closeMenu,screen:'Home',
         details:'Seu saldo é compartilhado entre todos os jogos. O bônus diário acompanha uma sequência de sete dias.',
